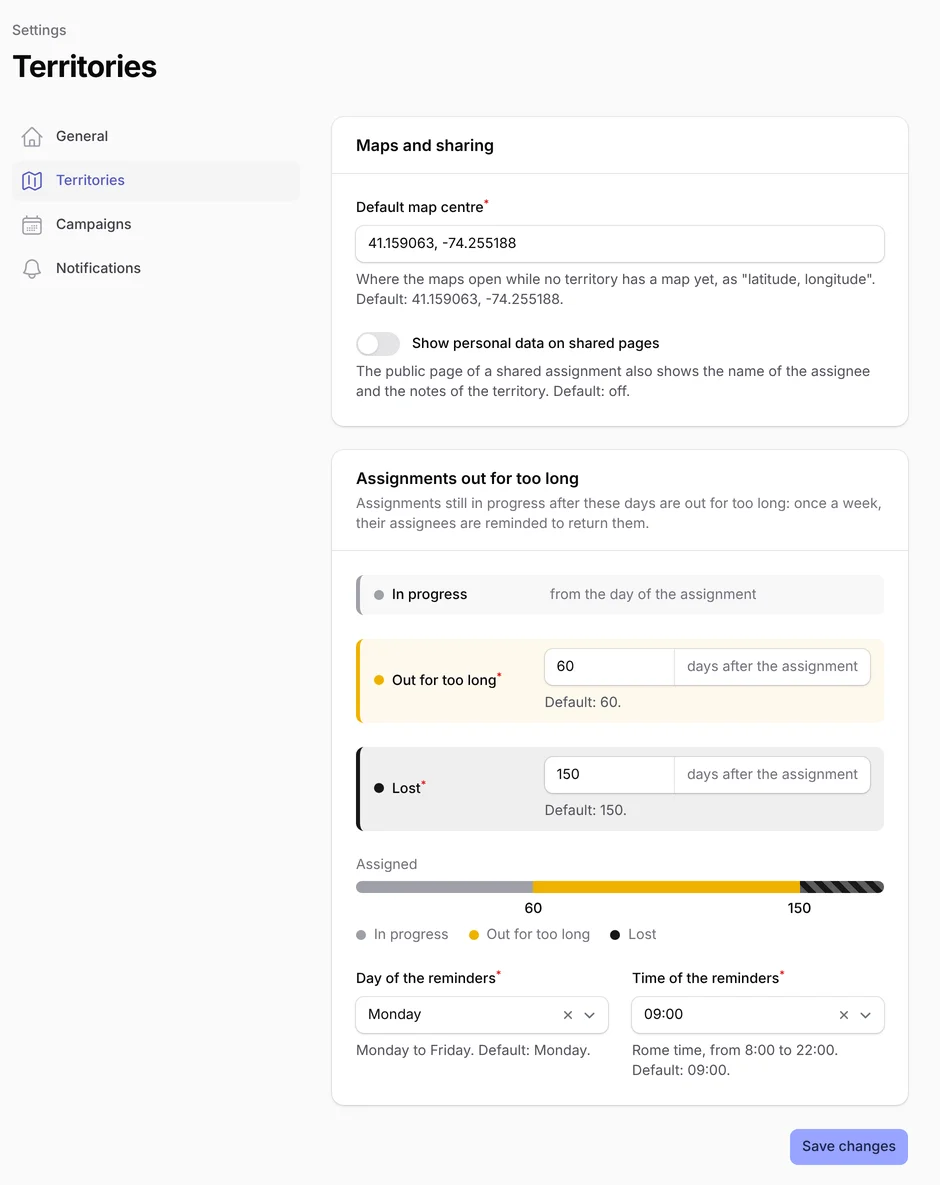
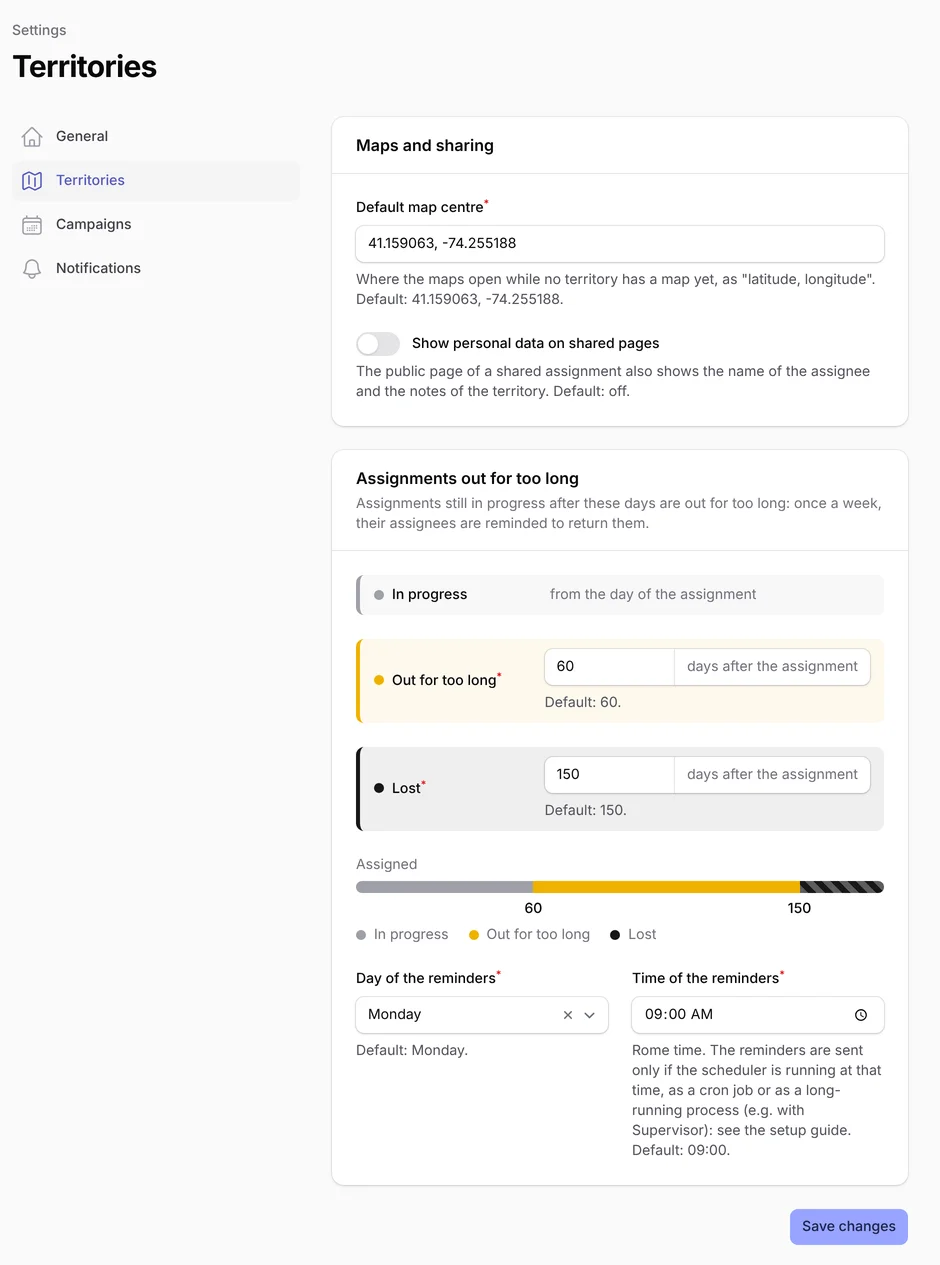
fix: allow any time for the stale reminders
The call window depends on how each environment runs the scheduler:
allow any day and minute, and remind that the scheduler must run as a
cron job or a long-running process.

diff --git a/app/Filament/Clusters/Settings/Pages/ManageTerritorySettings.php b/app/Filament/Clusters/Settings/Pages/ManageTerritorySettings.php
@@ -82,44 +82,29 @@ class ManageTerritorySettings extends AppSettingsPage
                         $this->stagesBar($staleStages, isCountdown: false, startLabel: __('settings.stages.assigned'), endLabel: ''),
                         Select::make('stale_check_day')
                             ->label(__('settings.fields.stale_check_day.label'))
-                            ->helperText(__('settings.fields.stale_check_day.helper').' '.$this->defaultHint(self::dayOptions()[$this->defaultValue('stale_check_day')]))
+                            ->helperText($this->defaultHint(self::dayOptions()[$this->defaultValue('stale_check_day')]))
                             ->options(self::dayOptions())
                             ->required()
                             ->native(false),
-                        Select::make('stale_check_time')
+                        TextInput::make('stale_check_time')
                             ->label(__('settings.fields.stale_check_time.label'))
                             ->helperText(__('settings.fields.stale_check_time.helper').' '.$this->defaultHint($this->defaultValue('stale_check_time')))
-                            ->options(self::timeOptions())
+                            ->type('time')
                             ->required()
-                            ->native(false),
+                            ->regex('/^([01]\d|2[0-3]):[0-5]\d$/'),
                     ]),
             ]);
     }
 
     /**
-     * The working days, keyed by number (1 = Monday), in the language of the user: on hostings without cron (e.g.
-     * Altervista) the scheduler is called only from Monday to Friday (see `bootstrap/app.php`).
+     * The days of the week, keyed by number (0 = Sunday), in the language of the user.
      *
      * @return array<int, string>
      */
     public static function dayOptions(): array
     {
-        return collect(range(1, 5))
+        return collect(range(0, 6))
             ->mapWithKeys(fn (int $day): array => [$day => ucfirst(Carbon::now()->startOfWeek(Carbon::SUNDAY)->addDays($day)->translatedFormat('l'))])
-            ->all();
-    }
-
-    /**
-     * The whole hours from 8:00 to 22:00, as "HH:00": on hostings without cron the scheduler is called only in that
-     * window, and possibly only once an hour (see `bootstrap/app.php`).
-     *
-     * @return array<string, string>
-     */
-    public static function timeOptions(): array
-    {
-        return collect(range(8, 22))
-            ->map(fn (int $hour): string => sprintf('%02d:00', $hour))
-            ->mapWithKeys(fn (string $time): array => [$time => $time])
             ->all();
     }
 

diff --git a/tests/Feature/SettingsPageTest.php b/tests/Feature/SettingsPageTest.php
@@ -374,20 +374,6 @@ test('the stale assignments are checked on the chosen day and time', function ()
         ->and($task->timezone)->toBe('Europe/Rome');
 });
 
-test('the stale assignments are checked only when the scheduler is called on hostings without cron', function (array $data) {
-    actingAsSuperAdmin();
-
-    Livewire::test(ManageTerritorySettings::class)
-        ->fillForm($data)
-        ->call('save')
-        ->assertHasFormErrors(array_keys($data));
-})->with([
-    'on Saturday' => [['stale_check_day' => Schedule::SATURDAY]],
-    'on Sunday' => [['stale_check_day' => Schedule::SUNDAY]],
-    'before 8:00' => [['stale_check_time' => '07:00']],
-    'after 22:00' => [['stale_check_time' => '23:00']],
-]);
-
 test('equal stale assignment levels are both kept', function () {
     $settings = app(TerritorySettings::class);
     $settings->stale_after_days = 90;
@@ -436,14 +422,30 @@ test('queue workers apply the settings saved after they started before each job'
     expect(config('mail.from.name'))->toBe('Territories of Springfield');
 });
 
-test('the stale assignments can be checked only on the hour', function () {
+test('the stale assignments can be checked on any day and at any time', function () {
     actingAsSuperAdmin();
 
     Livewire::test(ManageTerritorySettings::class)
-        ->fillForm(['stale_check_time' => '18:30'])
+        ->fillForm(['stale_check_day' => Schedule::SATURDAY, 'stale_check_time' => '07:35'])
+        ->call('save')
+        ->assertHasNoFormErrors();
+
+    Artisan::all();
+
+    $task = collect(app(Schedule::class)->events())
+        ->first(fn (ScheduledTask $task): bool => $task->description === DetectStaleAssignments::class);
+
+    expect($task->expression)->toBe('35 7 * * 6');
+});
+
+test('the time of the stale assignments check must be a time', function (string $time) {
+    actingAsSuperAdmin();
+
+    Livewire::test(ManageTerritorySettings::class)
+        ->fillForm(['stale_check_time' => $time])
         ->call('save')
         ->assertHasFormErrors(['stale_check_time']);
-});
+})->with(['not a time' => 'soon', 'out of range' => '25:00']);
 
 test('the campaign thresholds decide when a campaign is expiring', function () {
     actingAsSuperAdmin();

diff --git a/bootstrap/app.php b/bootstrap/app.php
@@ -54,8 +54,9 @@ return Application::configure(basePath: dirname(__DIR__))
             are called every 5 minutes, from 8:00 to 22:55 (Rome time),
             Monday to Friday: every task must be due inside that window, on
             a multiple of 5 minutes (better on the hour, for services that
-            call it hourly), in an explicit timezone, or it never runs: the
-            Settings page offers only whole hours.
+            call it hourly), in an explicit timezone, or it never runs. The
+            day and time of the stale assignments check are chosen on the
+            Settings page: they must match how the scheduler is run.
         */
         $schedule->job(new DetectStaleAssignments)
             ->weeklyOn(

diff --git a/lang/es/settings.php b/lang/es/settings.php
@@ -72,11 +72,10 @@ return [
         ],
         'stale_check_day' => [
             'label' => 'Día de los recordatorios',
-            'helper' => 'De lunes a viernes.',
         ],
         'stale_check_time' => [
             'label' => 'Hora de los recordatorios',
-            'helper' => 'Hora de Roma, de 8:00 a 22:00.',
+            'helper' => 'Hora de Roma. Los recordatorios se envían solo si el planificador se está ejecutando a esa hora, como tarea cron o como proceso permanente (p. ej. con Supervisor): consulta la guía de instalación.',
         ],
         'mail_from_name' => [
             'label' => 'Nombre del remitente de los correos',

diff --git a/lang/it/settings.php b/lang/it/settings.php
@@ -72,11 +72,10 @@ return [
         ],
         'stale_check_day' => [
             'label' => 'Giorno dei promemoria',
-            'helper' => 'Dal lunedì al venerdì.',
         ],
         'stale_check_time' => [
             'label' => 'Ora dei promemoria',
-            'helper' => 'Ora di Roma, dalle 8:00 alle 22:00.',
+            'helper' => 'Ora di Roma. I promemoria vengono inviati solo se a quell\'ora lo scheduler è in esecuzione, come cron job o come processo sempre attivo (es. con Supervisor): vedi la guida al setup.',
         ],
         'mail_from_name' => [
             'label' => 'Nome del mittente delle email',

diff --git a/lang/en/settings.php b/lang/en/settings.php
@@ -72,11 +72,10 @@ return [
         ],
         'stale_check_day' => [
             'label' => 'Day of the reminders',
-            'helper' => 'Monday to Friday.',
         ],
         'stale_check_time' => [
             'label' => 'Time of the reminders',
-            'helper' => 'Rome time, from 8:00 to 22:00.',
+            'helper' => 'Rome time. The reminders are sent only if the scheduler is running at that time, as a cron job or as a long-running process (e.g. with Supervisor): see the setup guide.',
         ],
         'mail_from_name' => [
             'label' => 'Sender name of the emails',

diff --git a/docs/user-documentation/it/setup.md b/docs/user-documentation/it/setup.md
@@ -112,8 +112,10 @@ modificare `.env`.
 Le email di notifica vengono messe in coda e un'attività settimanale invia i promemoria per i territori fuori da molto
 tempo. Entrambe richiedono qualcosa che venga eseguito periodicamente:
 
-- **Con accesso alla shell**, avvia il worker della coda (`php artisan queue:work`) e aggiungi lo scheduler di Laravel
-  al crontab (`* * * * * php /percorso/di/artisan schedule:run`).
+- **Con accesso alla shell**, avvia il worker della coda (`php artisan queue:work`) e lo scheduler di Laravel, dal
+  crontab (`* * * * * php /percorso/di/artisan schedule:run`) o come processo sempre attivo
+  (`php artisan schedule:work`, es. con Supervisor). Riavvia il worker della coda dopo aver installato una nuova
+  versione.
 - **Senza accesso alla shell** (hosting condiviso), imposta `ARTISAN_CRON_TOKEN` e configura un servizio di cron esterno
   che chiami questi endpoint, raggiungibili sotto il percorso `/api/artisan` di `APP_URL`:
 

diff --git a/docs/user-documentation/en/setup.md b/docs/user-documentation/en/setup.md
@@ -112,8 +112,9 @@ defaults: the super administrators can change them from the [Settings](administr
 Notification emails are queued and a weekly job sends the reminders for territories that have been out for a long time.
 Both need something that runs periodically:
 
-- **With shell access**, run the queue worker (`php artisan queue:work`) and add the Laravel scheduler to the crontab
-  (`* * * * * php /path/to/artisan schedule:run`).
+- **With shell access**, run the queue worker (`php artisan queue:work`) and the Laravel scheduler, either from the
+  crontab (`* * * * * php /path/to/artisan schedule:run`) or as a long-running process (`php artisan schedule:work`,
+  e.g. with Supervisor). Restart the queue worker after deploying a new version.
 - **Without shell access** (shared hosting), set `ARTISAN_CRON_TOKEN` and configure an external cron service to call
   these endpoints, which are served under the `/api/artisan` path of `APP_URL`:
 

diff --git a/docs/user-documentation/it/administration/settings.md b/docs/user-documentation/it/administration/settings.md
@@ -34,9 +34,10 @@ li disegna in scala mentre scrivi:
 
 - i giorni dopo cui un'assegnazione ancora in corso è fuori da troppo tempo e poi persa: questi ultimi devono essere di
   più;
-- il **giorno** (dal lunedì al venerdì) e l'**ora** (allo scoccare dell'ora, dalle 8:00 alle 22:00 ora di Roma) dei
-  promemoria settimanali inviati agli assegnatari delle assegnazioni fuori da troppo tempo. Su un hosting senza cron, il
-  servizio esterno deve chiamare lo scheduler a quell'ora (vedi la [Guida al setup](../setup)).
+- il **giorno** e l'**ora** (ora di Roma) dei promemoria settimanali inviati agli assegnatari delle assegnazioni fuori
+  da troppo tempo. Vengono inviati solo se a quell'ora lo scheduler è in esecuzione, come cron job o come processo
+  sempre attivo (es. con Supervisor); su un hosting senza cron, il servizio esterno deve chiamarlo a quell'ora (vedi la
+  [Guida al setup](../setup)).
 
 ## Campagne
 

diff --git a/docs/user-documentation/en/administration/settings.md b/docs/user-documentation/en/administration/settings.md
@@ -33,9 +33,10 @@ Under **Assignments out for too long** the levels are listed in order, each with
 them to scale while you type:
 
 - the days after which an assignment still in progress is out for too long and then lost: the latter must be more;
-- the **day** (Monday to Friday) and **time** (on the hour, from 8:00 to 22:00 Rome time) of the weekly reminders sent
-  to the assignees of the assignments out for too long. On a hosting without cron, the external service must call the
-  scheduler at that time (see the [Setup guide](../setup)).
+- the **day** and **time** (Rome time) of the weekly reminders sent to the assignees of the assignments out for too
+  long. They are sent only if the scheduler is running at that time, as a cron job or as a long-running process (e.g.
+  with Supervisor); on a hosting without cron, the external service must call it then (see the
+  [Setup guide](../setup)).
 
 ## Campaigns
 
